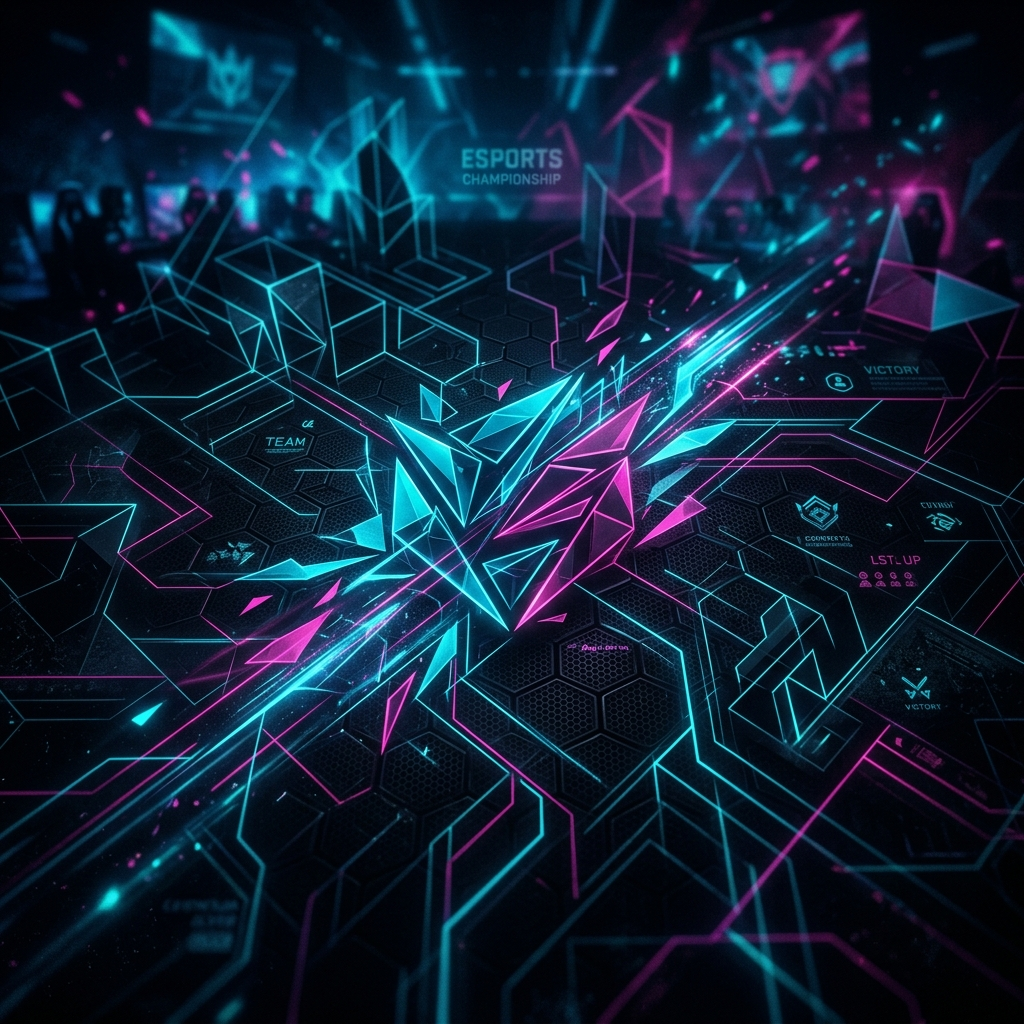
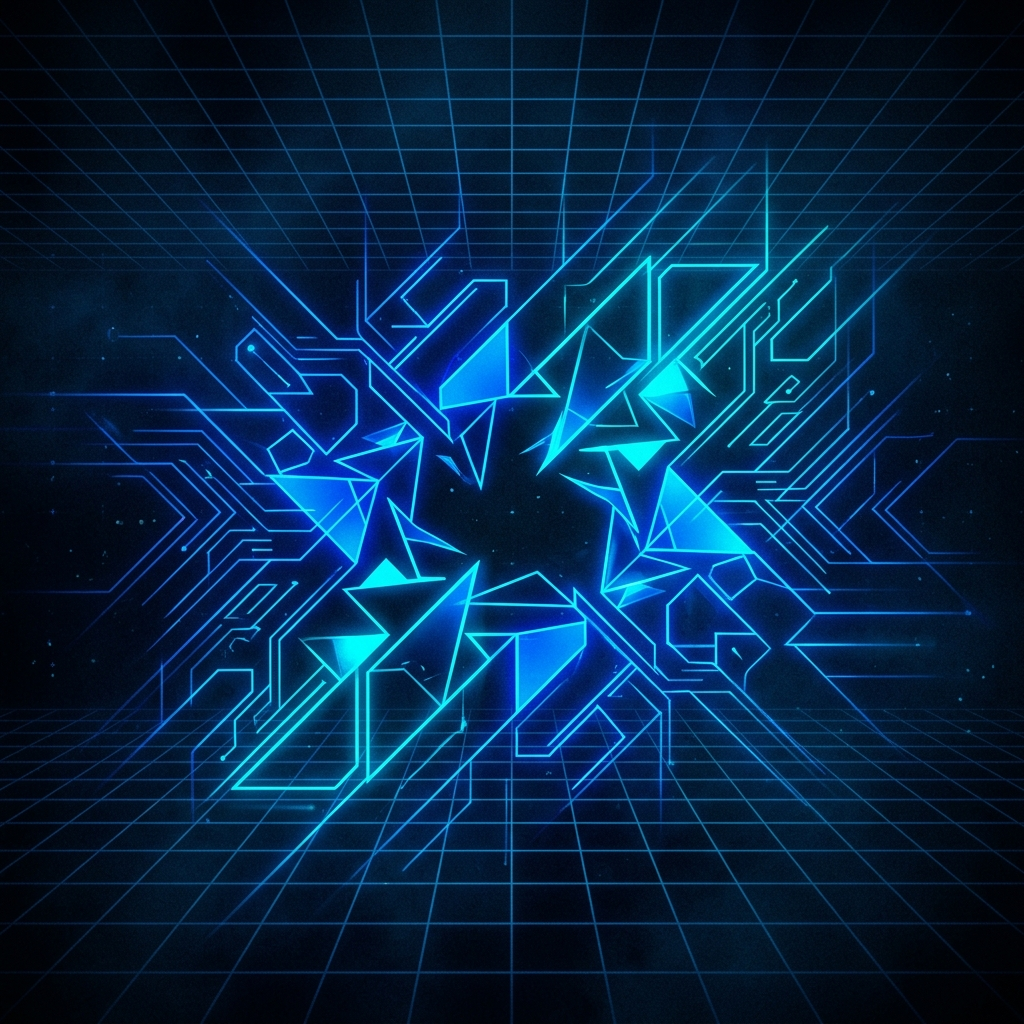
tournament page-change color

diff --git a/src/pages/torneo/torneo.css b/src/pages/torneo/torneo.css
@@ -43,7 +43,7 @@
   text-transform: uppercase;
   margin-bottom: 0.5rem;
   color: #fff;
-  text-shadow: 2px 2px 0px #00e5ff, -2px -2px 0px #ff0055;
+  text-shadow: 2px 2px 0px #00e5ff, -2px -2px 0px #0055ff;
   letter-spacing: 2px;
 }
 
@@ -93,15 +93,15 @@
 }
 
 .primary-btn {
-  background: linear-gradient(45deg, #ff0055, #ff0000);
+  background: linear-gradient(45deg, #0055ff, #0033cc);
   color: white;
-  box-shadow: 0 10px 20px rgba(255, 0, 85, 0.3);
+  box-shadow: 0 10px 20px rgba(0, 85, 255, 0.3);
   border: none;
 }
 
 .primary-btn:hover {
   transform: translateY(-3px);
-  box-shadow: 0 15px 25px rgba(255, 0, 85, 0.5);
+  box-shadow: 0 15px 25px rgba(0, 85, 255, 0.5);
   color: white;
 }
 
@@ -135,7 +135,7 @@
 .title-line {
   height: 4px;
   width: 80px;
-  background: linear-gradient(90deg, #ff0055, #00e5ff);
+  background: linear-gradient(90deg, #0055ff, #00e5ff);
   margin: 0 auto;
   border-radius: 2px;
 }
@@ -256,7 +256,7 @@
   content: '';
   position: absolute;
   top: 0; left: 0; width: 100%; height: 3px;
-  background: linear-gradient(90deg, #ff0055, #00e5ff);
+  background: linear-gradient(90deg, #0055ff, #00e5ff);
   opacity: 0;
   transition: opacity 0.3s ease;
 }
@@ -289,9 +289,9 @@
 }
 
 .prize-icon {
-  color: #ff0055;
+  color: #0055ff;
   margin-bottom: 1.5rem;
-  filter: drop-shadow(0 0 10px rgba(255, 0, 85, 0.4));
+  filter: drop-shadow(0 0 10px rgba(0, 85, 255, 0.4));
   display: none; /* Hidden since we use images now */
 }
 
@@ -433,7 +433,7 @@
 
 .info-item:hover {
   transform: translateY(-5px);
-  border-color: #ff0055;
+  border-color: #0055ff;
   background: rgba(255, 255, 255, 0.05);
 }
 
